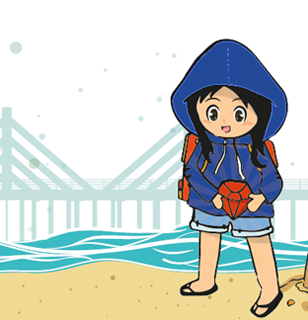
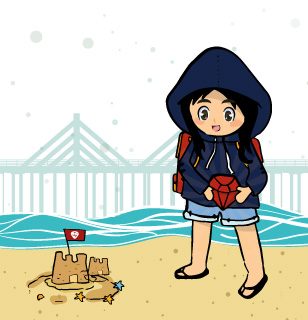
Updated thumbnail,fix email and change railsgirl event photo

diff --git a/penang.html b/penang.html
@@ -234,7 +234,7 @@ Steps to show on site
        <h3>Partners</h3>
       
        <p>Rails Girls Penang is co-organized with our awesome partners.</p><p>
-         <p>Want to help? We're looking for partners & sponsors for this non-profit event! <a href="mailto:cloud@piktochart.com>">Email us</a>! </p>
+         <p>Want to help? We're looking for partners & sponsors for this non-profit event! <a href="mailto:cloud@piktochart.com">Email us</a>! </p>
          <p>
           <a href="http://piktochart.com/" style="margin:0 0 0; border:0;">
             <img src="./images/piktochart-logo.png" alt="Piktochart">
@@ -265,7 +265,7 @@ Steps to show on site
        </p>
        <p>
          <strong>I know how to program - How can I help?</strong>
-         We’re also looking for people to be coaches. We’ll have a two-three hour workshop before the event to walk you through the curriculum. <a href="mailto:cloud@piktochart.com>">Email us</a>
+         We’re also looking for people to be coaches. We’ll have a two-three hour workshop before the event to walk you through the curriculum. <a href="mailto:cloud@piktochart.com">Email us</a>
        </p>
       
         

diff --git a/events.html b/events.html
@@ -82,7 +82,7 @@
         <h3>Portland, ME, USA<small>26-27 September 2014</small></h3>
       </a>
 
-      <a href="./penang.html" class="omega event grid_4" style="background:url(images/railsgirls-penang-thumb.jpg) 0px -80px no-repeat; background-size: 300px">
+      <a href="./penang.html" class="omega event grid_4" style="background:url(images/railsgirls-penang-thumb.jpg) 0px -49px no-repeat; background-size: 300px">
         <h3>Penang, Malaysia<small>27 September 2014</small></h3>
       </a>
 

diff --git a/index.html b/index.html
@@ -207,7 +207,7 @@
               <h3>
                 Penang, Malaysia
                 <br/>
-                <span>September 20, 2014</span>
+                <span>September 27, 2014</span>
               </h3>
             </a>
 
